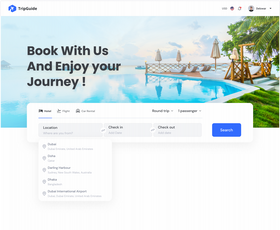
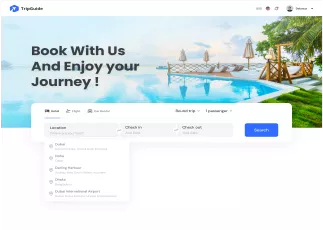
changed width & height of images to auto

diff --git a/src/components/Works.tsx b/src/components/Works.tsx
@@ -21,7 +21,7 @@ const ProjectCard: React.FC<IProject & { index: number }> = ({
     <motion.div variants={fadeIn('up', 'spring', index * 0.5, 0.75)}>
       <Tilt className="bg-tertiary p-5 rounded-2xl sm:w-[360px] w-full">
         <div className="relative w-full h-[230px]">
-          <Image src={image} alt={name} className="w-full h-full object-cover rounded-2xl" />
+          <Image src={image} alt={name} className="w-auto h-auto object-cover rounded-2xl" />
 
           <div className="absolute inset-0 flex justify-end m-3 card-img_hover">
             <div
@@ -79,4 +79,4 @@ const Works: React.FC = () => {
   )
 }
 
-export default SectionWrapper(Works, 'works')
+export default SectionWrapper(Works, 'work')
